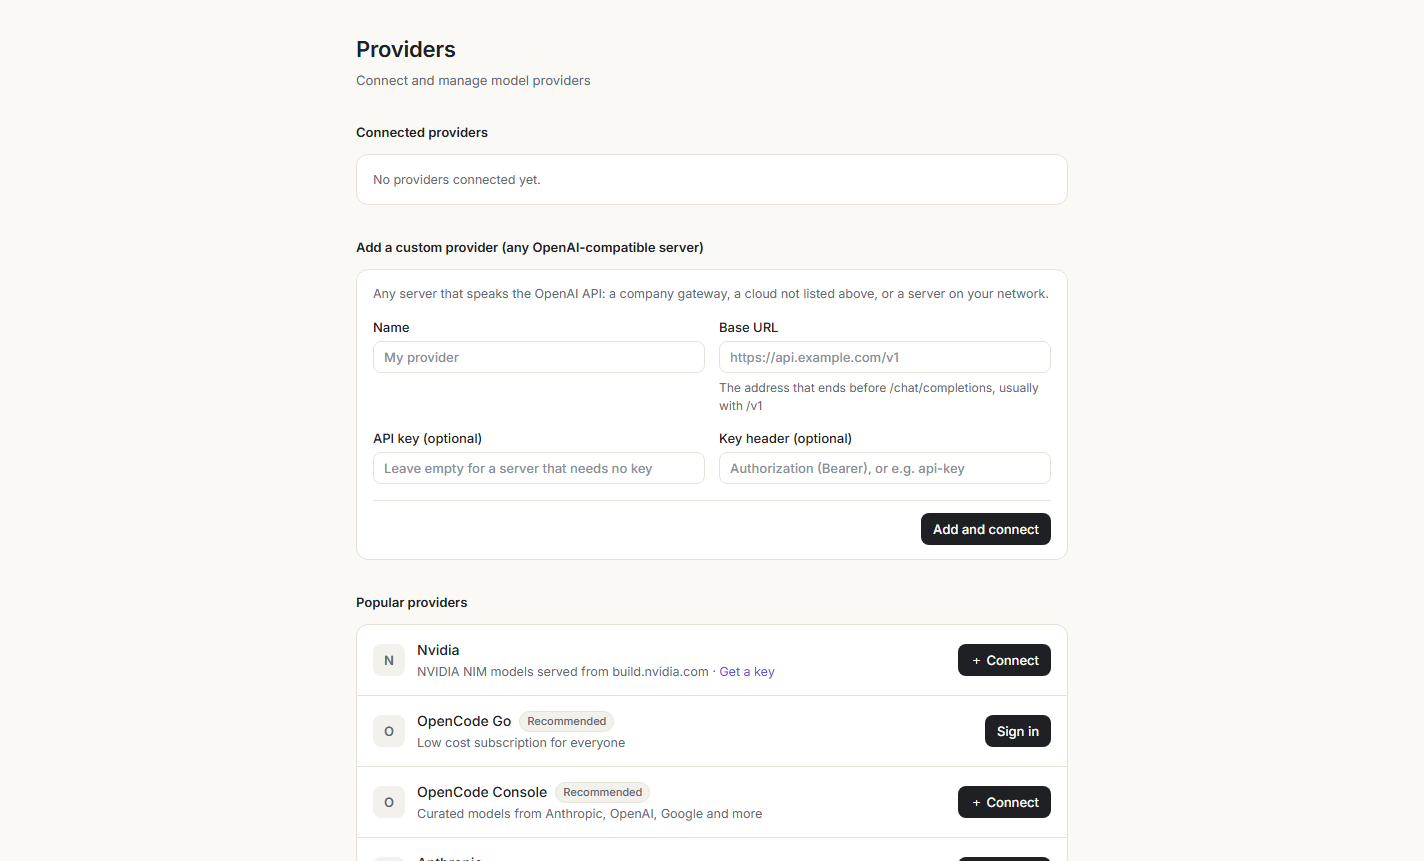
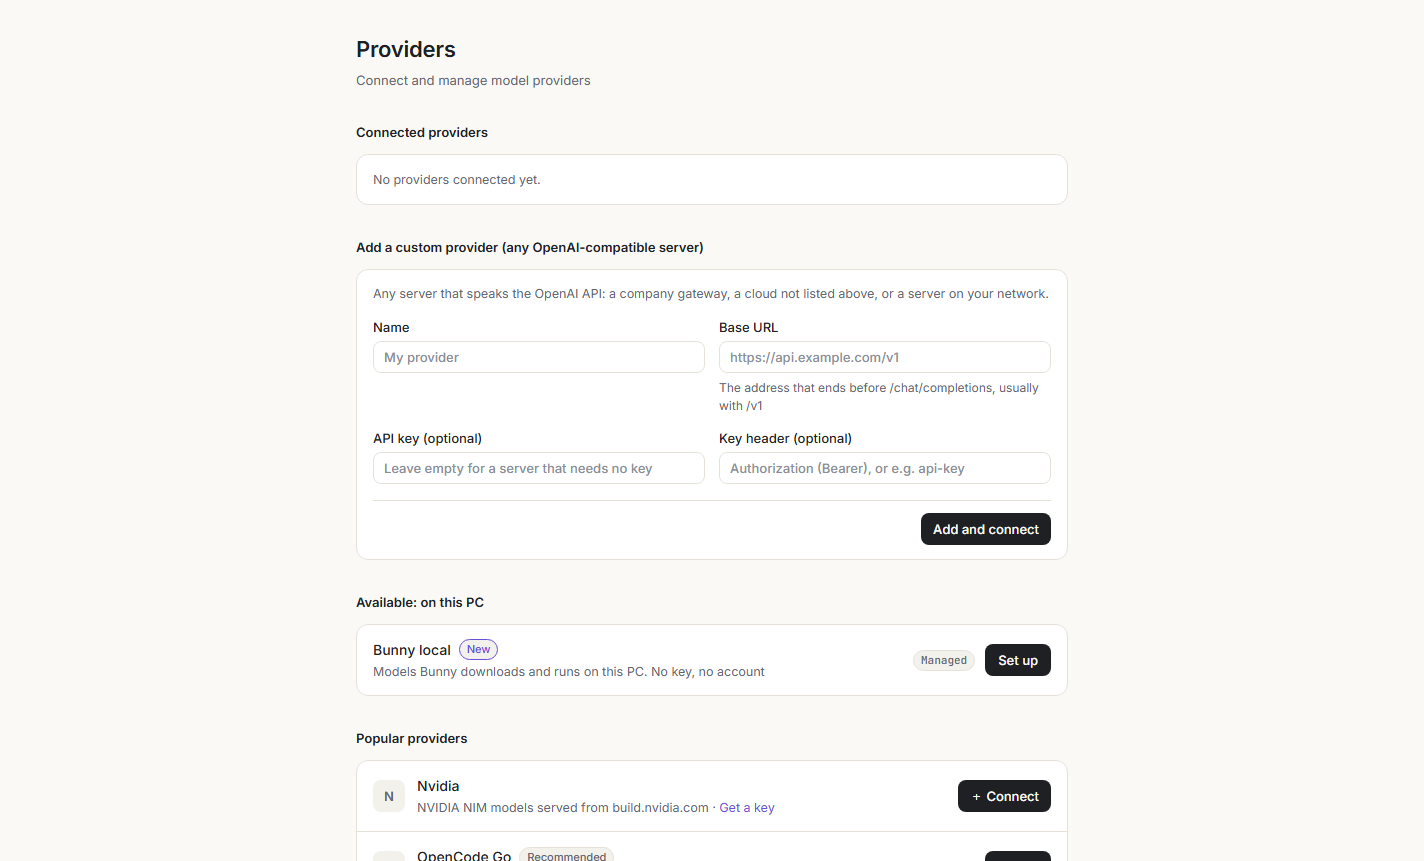
LOCAL-MODELS: F-1 follow-ups and QA fixes: Vulkan for NVIDIA only; Show in folder imports mkdir and says when it cannot open; Quick ask shows Starting your local model; a fake slow-start trigger and e2e for the chat's Starting line; Get more is out of the arrow-key list; bunny-local in the free tabl

diff --git a/src/ui/local-places.js b/src/ui/local-places.js
@@ -56,7 +56,7 @@ export function mountPlaces({ getPlaces, post, bridge, say, models = () => [] })
     const rows = [row('Where Bunny saves models', where, el('span', { class: 'tag', textContent: used ? `${gb(used)} used` : 'Nothing downloaded yet' }),
       bridge ? button('Change…', () => dialog(() => bridge.chooseDownloadFolder()), 'btn') : el('small', { class: 'desc', textContent: "Change: Bunny's window only" }),
       d.custom ? button("Use Bunny's folder", () => call('download-default'), 'btn') : null,
-      bridge ? button('Show in folder', async () => { const r = await bridge.showFolder(); if (r && !r.ok) say(r.message); }, 'btn') : null)];
+      bridge ? button('Show in folder', async () => { try { const r = await bridge.showFolder(); if (r && !r.ok) say(r.message); } catch { say('The folder could not be opened.'); } }, 'btn') : null)];
     if (d.custom) rows.push(el('div', { class: 'row lm-row' }, el('small', { class: 'desc', textContent: d.cloud ? 'This folder syncs to the cloud; several GB will upload. Bunny saves into a folder it makes inside it, named Bunny models.' : 'Bunny saves into a folder it makes inside your pick, named Bunny models. Each model keeps the place it was saved in.' })));
     if (!d.available) rows.push(el('div', { class: 'lm-err', role: 'alert', textContent: d.message }));
     const notFound = (models() ?? []).filter((m) => m.notFound);
@@ -156,5 +156,14 @@ export function mountPlaces({ getPlaces, post, bridge, say, models = () => [] })
     return [...by].map(([folder, bytes]) => ({ folder, bytes }));
   };
 
-  return { el: host, refresh, whereDownloads, paint, loaded: () => view !== null };
+  /** What Remove Bunny local left behind or could not reach, named by folder (LF-24). */
+  const removalLines = () => {
+    const r = view?.removal; if (!r) return [];
+    const by = (list) => { const m = new Map(); for (const x of list) m.set(x.folder, (m.get(x.folder) ?? 0) + 1); return [...m]; };
+    return [
+      ...by(r.left ?? []).map(([folder, n]) => `${n} model${n === 1 ? ' was' : 's were'} left in ${folder} because ${n === 1 ? 'it' : 'they'} changed after Bunny downloaded ${n === 1 ? 'it' : 'them'}.`),
+      ...by(r.missing ?? []).map(([folder, n]) => `${n} model${n === 1 ? '' : 's'} on ${folder} ${n === 1 ? "wasn't" : "weren't"} removed because the drive isn't connected.`),
+    ];
+  };
+  return { el: host, refresh, whereDownloads, paint, loaded: () => view !== null, removalLines };
 }

diff --git a/src/ui/local-models.js b/src/ui/local-models.js
@@ -114,6 +114,7 @@ export function mountLocalModels(root, { getJSON, sendJSON }) {
       return;
     }
     if (!s.installed) {
+      for (const line of places.removalLines()) host.append(el('div', { class: 'lm-warn lm-removal', role: 'status', textContent: line }));
       host.append(el('div', { class: 'lm-card' },
         el('b', { textContent: 'Set up Bunny local' }),
         el('div', { class: 'desc', textContent: `Bunny downloads a ${s.program.sizeMB} MB program (${s.program.name}) from its ${s.program.from}, checks its fingerprint, and keeps it in its own folder. Chats with a local model stay on this PC, and downloads talk only to GitHub (the program) and Hugging Face (models).` }),
@@ -140,7 +141,7 @@ export function mountLocalModels(root, { getJSON, sendJSON }) {
     if (!places.loaded()) { // no places view (test mode, or a page that is not the window): the one plain row, with no path
       const dl = typeof window !== 'undefined' ? (window.bunnyDesktop ?? window.parent?.bunnyDesktop) : null;
       host.append(el('div', { class: 'group lm-group' }, row('Where models are kept', "Bunny's own folder", el('span', { class: 'tag', textContent: s.usedBytes ? `${gb(s.usedBytes)} used` : 'Nothing downloaded yet' }),
-        dl?.localModels ? button('Show in folder', async () => { const r = await dl.localModels.showFolder(); if (r && !r.ok) { notice = r.message; paint(); } }, 'btn') : el('small', { class: 'desc', textContent: "Show in folder: Bunny's window only" }))));
+        dl?.localModels ? button('Show in folder', async () => { try { const r = await dl.localModels.showFolder(); if (r && !r.ok) { notice = r.message; paint(); } } catch { notice = 'The folder could not be opened.'; paint(); } }, 'btn') : el('small', { class: 'desc', textContent: "Show in folder: Bunny's window only" }))));
     }
     host.append(places.el);
     host.append(el('div', { class: 'desc lm-foot', textContent: 'Chats with a local model stay on this PC. Downloads talk only to Hugging Face and GitHub. Only this window can set up, download, add, start, stop or delete: not a phone, not another PC, and not Bunny itself.' }));

diff --git a/src/server/localModels.js b/src/server/localModels.js
@@ -14,7 +14,7 @@ import { GB, chooseContext, needBytes } from './localFit.js';
 export const IDLE_CHOICES = [5, 10, 30, 60, 0]; // minutes; 0 = only when Bunny closes
 export const PROGRAM = { name: 'llama.cpp', sizeMB: 39, from: 'GitHub releases', licence: 'MIT', host: 'github.com', signed: false }; // signed: S-LM1 decides; until it says otherwise the card says the program is not signed (LM-1)
 export const QUICK_ASK_STARTING = 'Starting your local model…';
-export const RAISABLE = ['memory', 'missing', 'changed', 'fingerprint', 'hfchanged', 'disk', 'device'];
+export const RAISABLE = ['memory', 'missing', 'changed', 'fingerprint', 'hfchanged', 'disk', 'device', 'slow-start'];
 const PROVIDER_ID = 'bunny-local';
 
 /** The invented list (fake mode only). Real entries come from localModels.json once the spikes and Security have settled them. */
@@ -164,6 +164,7 @@ export function createLocalModels({ dataDir, fake = false, list = FAKE_LIST, pc 
     if (raised.memory) throw new LocalError('local.memory', `Not enough memory to load ${entry(id)?.name ?? id}. This PC has about ${(pc().freeRam / GB).toFixed(1)} GB free and the model needs about ${(Math.max(needBytes(entry(id), 32768), pc().freeRam + 0.1 * GB) / GB).toFixed(1)} GB. Close other apps or choose a smaller model.`, 409);
     if (who !== 'window' && state.running?.id !== id) throw new LocalError('local.notRunning', 'Bunny local is stopped. Start it from Bunny\'s window on your PC.', 409);
     if (state.models[id]?.state !== 'ready') throw new LocalError('local.notReady', 'That model is not downloaded.', 409);
+    if (raised['slow-start'] && state.running?.id !== id) await new Promise((r) => setTimeout(r, 4000)); // test mode: a start that takes a few seconds, so the Starting line can be seen
     state.running = { id, usedBytes: Math.round(entry(id).size * 1.25), lastUsed: clock() };
     return state.running;
   }

diff --git a/e2e/local-models.spec.js b/e2e/local-models.spec.js
@@ -209,4 +209,21 @@ test('the chat\'s memory error is a card with two buttons; a missing program sho
   await request.post('/api/local-models/fake', { data: { raise: 'none' } });
 });
 
+test('the chat shows "Starting your local model…" while a slow start is held open, and the line goes when the first words arrive', async ({ page, request }) => {
+  await request.post('/api/local-models/setup');
+  await expect.poll(async () => (await (await request.get('/api/local-models')).json()).installed).toBe(true);
+  await request.post('/api/local-models/download', { data: { id: 'qwen3-4b' } });
+  await expect.poll(async () => (await (await request.get('/api/local-models')).json()).models.find((m) => m.id === 'qwen3-4b').state, { timeout: 10000 }).toBe('ready');
+  await request.post('/api/local-models/stop');
+  await request.post('/api/local-models/fake', { data: { raise: 'slow-start' } });
+  await page.goto('/');
+  await page.locator('#picker-button').click();
+  await page.locator('.picker-item', { hasText: 'Qwen3 4B' }).first().click();
+  await page.locator('#input').fill('hello');
+  await page.locator('#send').click();
+  await expect(page.locator('.bunny-word')).toHaveText('Starting your local model…', { timeout: 3000 });
+  await expect(page.locator('.bunny-word', { hasText: 'Starting your local model…' })).toHaveCount(0, { timeout: 15000 }); // the first words (or the end of the reply) took it away
+  await request.post('/api/local-models/fake', { data: { raise: 'none' } });
+});
+
 test.afterAll(async ({ request }) => { await request.post('/api/local-models/fake', { data: { raise: 'none' } }); await request.delete('/api/local-models'); }); // leave no local models behind for the other specs

diff --git a/test/pc-notice-f8-4.test.js b/test/pc-notice-f8-4.test.js
@@ -102,3 +102,18 @@ test('the bar\'s own first look-up (pcLookupFirst, round 2) shows the same notic
   const shown = await pcWorld(t, { files, settings: { pcSearchNoticeShown: true }, calls: [] });
   assert.equal(noticeIn(await ask(shown)).length, 0, 'a flag already set sends none');
 });
+
+test('LM-9: the bar shows "Starting your local model…" for the one flagged notice, in fixed words; a notice with the same words but no flag, or other text with the flag, is not passed through as given', async () => {
+  const sse = (...frames) => frames.map(([event, data]) => `event: ${event}\ndata: ${JSON.stringify(data)}\n\n`).join('');
+  const run = async (frames) => {
+    const events = [];
+    const adminFetch = async (path) => (path === '/api/sessions' ? new Response(JSON.stringify({ id: 'aaaaaaaa-1111-4111-8111-111111111111' }), { status: 200 }) : new Response(sse(...frames), { status: 200, headers: { 'content-type': 'text/event-stream' } }));
+    const a = createAnswerer({ adminFetch, emit: (e) => events.push(e), getSettings: () => ({}) });
+    await a.ask({ text: 'hello' });
+    return events;
+  };
+  const flagged = await run([['notice', { text: 'anything', localStarting: true }], ['delta', { text: 'ok' }], ['done', { model: 'm1' }]]);
+  assert.equal(flagged.find((e) => e.type === 'pc-notice').text, 'Starting your local model…');
+  const plain = await run([['notice', { text: 'Starting your local model…' }], ['delta', { text: 'ok' }], ['done', { model: 'm1' }]]);
+  assert.ok(!plain.some((e) => e.type === 'pc-notice'), 'only the flagged notice is drawn');
+});

diff --git a/electron/quick-ask-answer.js b/electron/quick-ask-answer.js
@@ -156,6 +156,7 @@ export function createAnswerer({ adminFetch, emit, onFinishedDetached = () => {}
         for (const ev of parsed.events) {
           if (ev.name === 'delta' && typeof ev.data?.text === 'string') push(ev.data.text);
           else if (ev.name === 'tool' && typeof ev.data?.pcState === 'string') { const p = pcEvent(ev.data); if (p) { out(p); if (p.state === 'results') pcRows = p.rows ?? []; } }
+          else if (ev.name === 'notice' && ev.data?.localStarting === true) out({ type: 'pc-notice', text: 'Starting your local model…' }); // the one fixed words of LM-9: the bar's own line, never text taken from the answer
           else if (ev.name === 'notice' && ev.data?.pcNotice === true && typeof ev.data.text === 'string') out({ type: 'pc-notice', text: ev.data.text.replace(/[\u0000-\u001f\u007f]+/g, ' ').slice(0, 400) }); // F8-4: one fixed line under the answer
           else if (ev.name === 'done') { doneSources = ev.data?.pcSources; model = typeof ev.data?.model === 'string' ? ev.data.model : model; finished = true; lookups = num(ev.data?.lookups); lookupText = txt(ev.data?.lookupText, 4000); }
           else if (ev.name === 'error') {

diff --git a/src/server/localModelsReal.js b/src/server/localModelsReal.js
@@ -26,8 +26,8 @@ import { loadLocalList } from '../providers/localList.js';
 import { LocalError, PROGRAM, IDLE_CHOICES, QUICK_ASK_STARTING } from './localModels.js';
 
 const PROVIDER_ID = 'bunny-local';
-/** Vendors whose graphics cards the Vulkan build was proven on (S-LM1: NVIDIA and Intel on one PC). Others get the CPU build until someone runs it there. */
-export const VULKAN_PROVEN = ['nvidia', 'intel'];
+/** Vendors whose graphics cards the Vulkan build was proven on (the B3 run: an NVIDIA card). Others get the CPU build until someone runs it there. */
+export const VULKAN_PROVEN = ['nvidia']; // the one card actually run (2026-11-26); Intel stays on the CPU build until an Intel run is recorded
 /** Security B3: the Vulkan build without ggml-rpc.dll was run on one PC (Low helper, LM-2 argv, one chat, the Vulkan device); with this false every PC gets the CPU build. */
 export const VULKAN_RECORDED = true; // run 2026-11-26: docs/spikes/local-models/vulkan-run-2026-11-26.md
 /** The smallest graphics card in a --list-devices answer (it runs out of room first), or null. */

diff --git a/src/ui/chat.js b/src/ui/chat.js
@@ -536,7 +536,7 @@ function openPicker(host, trigger) {
   // The focus stays in the search box so typing keeps working.
   let active = 0;
 
-  const items = () => [...list.querySelectorAll('.picker-item')];
+  const items = () => [...list.querySelectorAll('.picker-item:not(.picker-get-more)')];
 
   const highlight = () => {
     const all = items();
@@ -565,7 +565,7 @@ function openPicker(host, trigger) {
 
   // LOCAL-MODELS: the menu always offers a way to the Bunny local card (downloaded models are listed above under their own provider name)
   const addGetMore = () => {
-    const more = button('Get more…', { className: 'picker-item picker-get-more', role: 'option', 'aria-selected': 'false' });
+    const more = button('Get more…', { className: 'picker-item picker-get-more' });
     more.id = 'model-get-more';
     more.append(element('span', { className: 'model-desc', textContent: 'Opens Bunny local in Settings' }));
     more.addEventListener('click', () => { closePicker(); openSettings('providers'); });

diff --git a/src/server/app.js b/src/server/app.js
@@ -2701,7 +2701,7 @@ export async function createApp({ localModels: localModelsOption = null, pcOptio
         if (helper && event === 'permission') out = { ...data, title: `${helper} › ${data.title}` };
         res.write(`event: ${event}\ndata: ${JSON.stringify(out)}\n\n`);
       };
-      if (localStarting) send('notice', { text: body.textOnly === true ? QUICK_ASK_STARTING : `Starting ${localStarting}… (first message after a start takes longer)` }); // LM-9: the Starting line
+      if (localStarting) send('notice', body.textOnly === true ? { text: QUICK_ASK_STARTING, localStarting: true } : { text: `Starting ${localStarting}… (first message after a start takes longer)` }); // LM-9: the Starting line
       // A helper's own steps are kept in its own chat; the main chat keeps its own.
       // What the model said since its last step ("Checking the server log.") is kept with the
       // next step, so the chat reads as a running account of the work, also after a reload.

diff --git a/test/local-models-real.test.js b/test/local-models-real.test.js
@@ -55,7 +55,7 @@ test('the backend: Vulkan only for the vendors it was proven on, and only with t
   assert.equal(chooseBackend({ vendor: 'NVIDIA', useGpu: true }), 'vulkan', 'the Vulkan run without ggml-rpc.dll is recorded');
   assert.equal(chooseBackend({ vendor: 'NVIDIA', useGpu: true, vulkanRecorded: false }), 'cpu', 'Security B3: the switch that keeps every PC on the CPU build');
   assert.equal(chooseBackend({ vendor: 'NVIDIA', useGpu: true, vulkanRecorded: true }), 'vulkan');
-  assert.equal(chooseBackend({ vendor: 'Intel', useGpu: true, vulkanRecorded: true }), 'vulkan');
+  assert.equal(chooseBackend({ vendor: 'Intel', useGpu: true, vulkanRecorded: true }), 'cpu', 'Intel stays on the CPU build until an Intel run is recorded');
   assert.equal(chooseBackend({ vendor: 'AMD', useGpu: true, vulkanRecorded: true }), 'cpu');
   assert.equal(chooseBackend({ vendor: 'NVIDIA', useGpu: false, vulkanRecorded: true }), 'cpu');
   assert.equal(chooseBackend({ vendor: null }), 'cpu');

diff --git a/test/guard-providers.test.js b/test/guard-providers.test.js
@@ -71,7 +71,7 @@ test('guard on: a key-based provider connects, lists models and answers a messag
 test('guard on: every catalogue key-based provider connects and answers (fake upstream)', async (t) => {
   const { base } = await startApp(t, { localGuard: true, apiToken: TOKEN });
   const a = api(base);
-  const list = (await a.json('/api/providers')).body.filter((p) => p.kind !== 'oauth' && !p.custom && p.id !== 'ollama');
+  const list = (await a.json('/api/providers')).body.filter((p) => p.kind !== 'oauth' && p.kind !== 'managed' && !p.custom && p.id !== 'ollama');
   assert.ok(list.length >= 5, `${list.length} providers`);
   for (const p of list) {
     const c = await a.post(`/api/providers/${p.id}/connect`, { apiKey: 'sk-test-000000000000' });

diff --git a/electron/main.js b/electron/main.js
@@ -21,7 +21,7 @@ import { cleanTrayEvent, trayTooltip } from './tray-words.js';
 import { childWindowOptions, isOwnPage, navigationAllowed, openDecision } from './own-pages.js';
 import { createPcOpen } from './pc-open.js';
 import { createMadeFile, findMadeFile } from './made-file.js';
-import { copyFile } from 'node:fs/promises';
+import { copyFile, mkdir } from 'node:fs/promises';
 import { browserAddress, listenWithFallback, portToKeepNow, wantedPort } from './browser-access.js';
 
 const here = dirname(fileURLToPath(import.meta.url));
